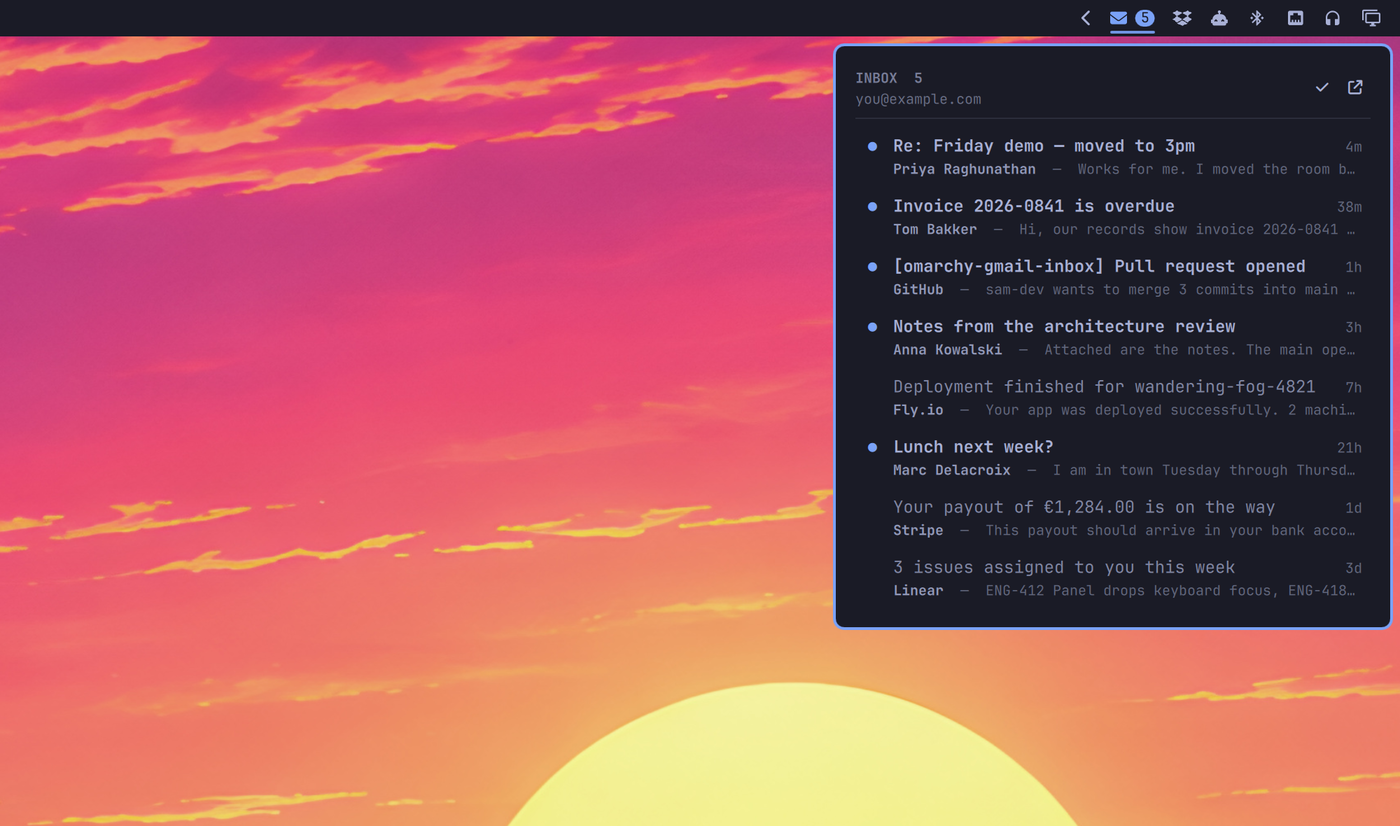
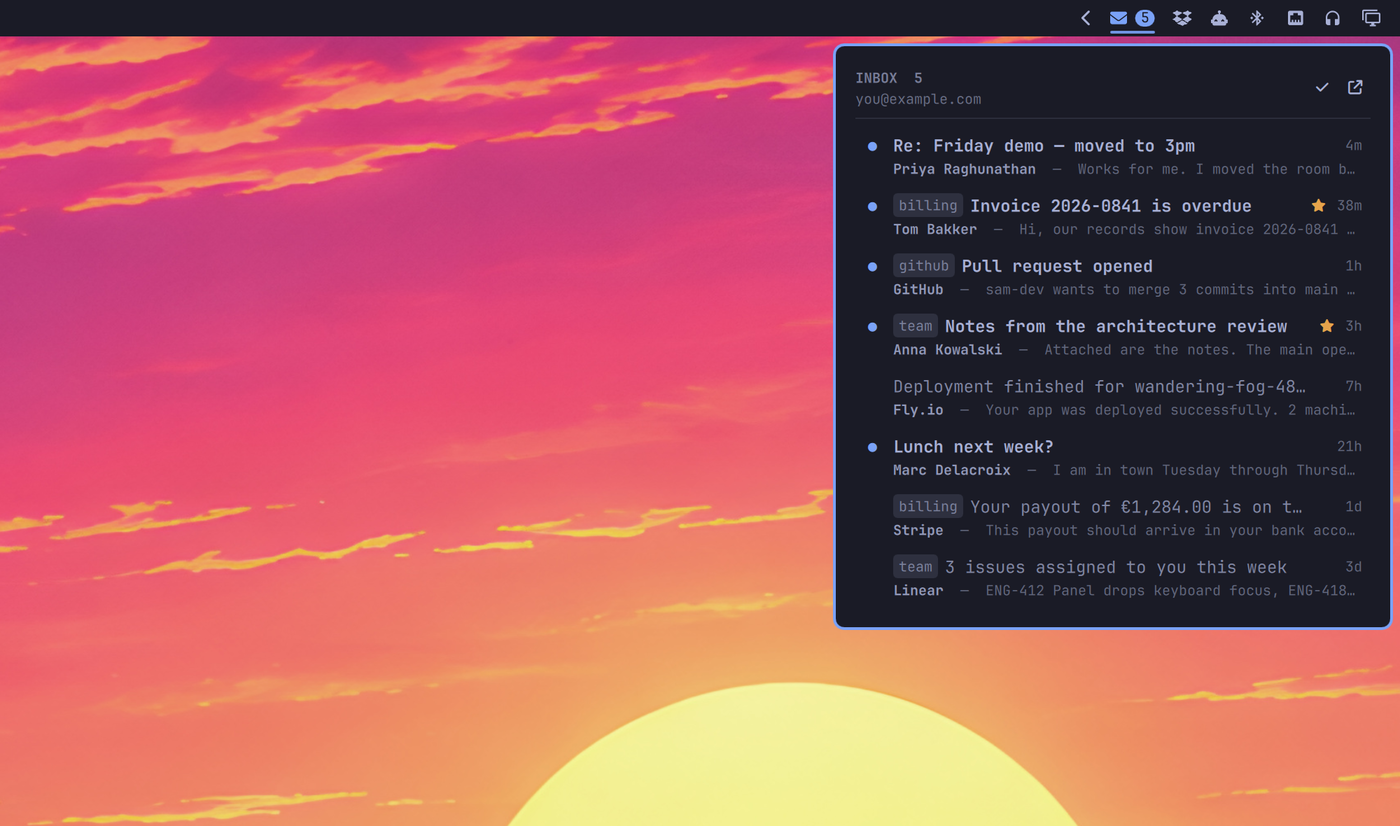
Show stars and your own labels
The star gets a slot that stays whether it is set or not, so the ages keep
one column, and it is empty and faint under the cursor: a control where you
are looking, nothing where you are not.

Labels come back as ids, so the script keeps a lookup table beside the
snippet cache. An unresolvable id is the only thing that refetches it, which
makes a renamed or new label fix itself for free.

diff --git a/Panel.qml b/Panel.qml
@@ -39,11 +39,17 @@ Panel {
   readonly property string iconDot: "\uF111"
   readonly property string iconCheck: "\uF00C"
   readonly property string iconExternal: "\uF08E"
+  readonly property string iconStar: "\uF005"
+  readonly property string iconStarEmpty: "\uF006"
 
   readonly property color foreground: bar ? bar.foreground : Color.foreground
   // A full inbox is normal, not an alarm, so the badge takes the theme accent
   // rather than the bar's urgent red.
   readonly property color accent: Color.accent
+  // The one colour here that does not come from the theme. A star is amber in
+  // every mail client there is, and a star in the theme's accent would be
+  // indistinguishable from the unread dot right beside it.
+  readonly property color starColor: "#E5A44B"
   readonly property string fontFamily: bar ? bar.fontFamily : Style.font.family
 
   property var messages: []
@@ -116,26 +122,35 @@ Panel {
   }
 
   // The list is a plain JS array, so a row is updated by handing over a new
-  // one. Done locally as well as on the server: the badge should drop the
-  // moment you click, not a refresh later.
-  function markLocalRead(id) {
+  // one. Applied locally as well as on the server: the badge and the star
+  // should follow the click, not the refresh a moment later.
+  function patchMessage(id, changes) {
     var next = []
     var changed = false
     for (var i = 0; i < messages.length; i++) {
       var m = messages[i]
-      if (m.id === id && m.unread) {
-        changed = true
-        next.push({
-          id: m.id, threadId: m.threadId, subject: m.subject, from: m.from,
-          snippet: m.snippet, ts: m.ts, unread: false
-        })
-      } else {
+      if (m.id !== id) {
         next.push(m)
+        continue
       }
+      var copy = {}
+      for (var key in m) copy[key] = m[key]
+      for (var field in changes) copy[field] = changes[field]
+      next.push(copy)
+      changed = true
     }
-    if (!changed) return
-    messages = next
-    if (unread > 0) unread -= 1
+    if (changed) messages = next
+    return changed
+  }
+
+  function markLocalRead(id) {
+    for (var i = 0; i < messages.length; i++) {
+      if (messages[i].id !== id) continue
+      if (!messages[i].unread) return
+      patchMessage(id, { unread: false })
+      if (unread > 0) unread -= 1
+      return
+    }
   }
 
   function openMessage(message) {
@@ -165,6 +180,14 @@ Panel {
     markingAll = true
     readAllProc.command = [root.script, "read-all"]
     readAllProc.running = true
+  }
+
+  function toggleStar(message) {
+    if (!message || !validId(message.id) || starProc.running) return
+    var wanted = !message.starred
+    patchMessage(message.id, { starred: wanted })
+    starProc.command = [root.script, wanted ? "star" : "unstar", message.id]
+    starProc.running = true
   }
 
   function moveCursor(delta) {
@@ -243,6 +266,12 @@ Panel {
       root.markingAll = false
       root.refresh()
     }
+  }
+
+  // No refresh on exit: the star is already drawn, and a reload here would
+  // pull the whole list out from under a run of quick stars.
+  Process {
+    id: starProc
   }
 
   Timer {
@@ -339,8 +368,11 @@ Panel {
       // both, and a handler on each runs the action twice.
       onActivateRequested: root.activateCursor()
       onTextKey: function(t) {
-        if (t === "r" && root.cursor >= 0 && root.cursor < root.messages.length)
+        var onCursor = root.cursor >= 0 && root.cursor < root.messages.length
+        if (t === "r" && onCursor)
           root.markRead(root.messages[root.cursor].id)
+        else if (t === "s" && onCursor)
+          root.toggleStar(root.messages[root.cursor])
         else if (t === "a")
           root.markAllRead()
       }
@@ -511,26 +543,102 @@ Panel {
                   width: parent.width
                   height: subject.implicitHeight
 
-                  Text {
-                    id: subject
+                  // Labels first, the way Gmail itself puts them: they say
+                  // which pile a message belongs to, which is the thing you
+                  // want before you have read the subject. Two at most, and
+                  // never the system ones — the script has already dropped
+                  // INBOX, the CATEGORY_ tabs and the star colour.
+                  Row {
+                    id: line
                     anchors.left: parent.left
+                    anchors.right: starSlot.left
+                    anchors.rightMargin: Style.space(6)
+                    anchors.verticalCenter: parent.verticalCenter
+                    spacing: Style.space(5)
+
+                    Row {
+                      id: chips
+                      anchors.verticalCenter: parent.verticalCenter
+                      spacing: Style.space(3)
+                      visible: (row.modelData.labels || []).length > 0
+
+                      Repeater {
+                        model: (row.modelData.labels || []).slice(0, 2)
+
+                        Rectangle {
+                          required property string modelData
+                          anchors.verticalCenter: parent.verticalCenter
+                          height: chipText.implicitHeight + Style.space(3)
+                          width: chipText.implicitWidth + Style.space(8)
+                          radius: Style.space(3)
+                          color: Qt.rgba(root.foreground.r, root.foreground.g,
+                                         root.foreground.b, 0.14)
+
+                          Text {
+                            id: chipText
+                            anchors.centerIn: parent
+                            text: parent.modelData
+                            textFormat: Text.PlainText
+                            font.family: root.fontFamily
+                            font.pixelSize: Style.font.caption
+                            color: Qt.darker(root.foreground, 1.35)
+                          }
+                        }
+                      }
+                    }
+
+                    Text {
+                      id: subject
+                      anchors.verticalCenter: parent.verticalCenter
+                      width: line.width - (chips.visible ? chips.width + line.spacing : 0)
+                      text: row.modelData.subject
+                      textFormat: Text.PlainText
+                      elide: Text.ElideRight
+                      font.family: root.fontFamily
+                      font.pixelSize: Style.font.body
+                      // Weight carries the read state along with the dot, so
+                      // the list can be read without hunting for the marker.
+                      font.bold: row.modelData.unread
+                      color: row.modelData.unread ? root.foreground : Qt.darker(root.foreground, 1.3)
+                    }
+                  }
+
+                  // The star keeps its slot whether it is set or not, so the
+                  // ages stay in one column down the list. Empty and faint on
+                  // the row under the cursor, invisible everywhere else: it is
+                  // a control where you are looking and nothing where you are
+                  // not.
+                  Item {
+                    id: starSlot
                     anchors.right: age.left
-                    anchors.rightMargin: Style.space(8)
-                    text: row.modelData.subject
-                    textFormat: Text.PlainText
-                    elide: Text.ElideRight
-                    font.family: root.fontFamily
-                    font.pixelSize: Style.font.body
-                    // Weight carries the read state along with the dot, so
-                    // the list can be read without hunting for the marker.
-                    font.bold: row.modelData.unread
-                    color: row.modelData.unread ? root.foreground : Qt.darker(root.foreground, 1.3)
+                    anchors.rightMargin: Style.space(6)
+                    anchors.verticalCenter: parent.verticalCenter
+                    width: Style.space(14)
+                    height: Style.space(14)
+
+                    Text {
+                      anchors.centerIn: parent
+                      visible: row.modelData.starred || row.active
+                      text: row.modelData.starred ? root.iconStar : root.iconStarEmpty
+                      textFormat: Text.PlainText
+                      font.family: root.fontFamily
+                      font.pixelSize: Style.font.caption
+                      color: row.modelData.starred
+                        ? root.starColor
+                        : Qt.darker(root.foreground, 1.9)
+                    }
+
+                    MouseArea {
+                      anchors.fill: parent
+                      cursorShape: Qt.PointingHandCursor
+                      onClicked: root.toggleStar(row.modelData)
+                    }
                   }
 
                   Text {
                     id: age
                     anchors.right: parent.right
-                    anchors.baseline: subject.baseline
+                    anchors.verticalCenter: parent.verticalCenter
                     text: root.ageLabel(row.modelData.ts)
                     textFormat: Text.PlainText
                     font.family: root.fontFamily

diff --git a/README.md b/README.md
@@ -10,6 +10,11 @@ body, and how long it has been there.
   what fits in the panel.
 - **A dot per unread message**, which doubles as the button that clears it, so
   a newsletter can be dismissed without opening it.
+- **Stars**, shown where you set them and settable from the panel. The slot
+  stays empty rather than absent, so the ages line up down one column.
+- **Your own labels** as chips in front of the subject, resolved from label id
+  to the name you gave it. Gmail's own bookkeeping — `INBOX`, the category
+  tabs, `IMPORTANT` — is left out; it says nothing you did not know.
 - **Mark all as read** from the header, covering every unread message in the
   inbox rather than only the ones on screen.
 - **Click a message** to open it in your browser, signed in to the right
@@ -58,9 +63,11 @@ o.bind("SUPER + M", "Gmail", "omarchy-shell shell toggle jankeesvw.gmail-inbox")
 | Middle-click the bar icon | refresh now |
 | Click a message | open it in the browser and mark it read |
 | Click its dot | mark it read, panel stays open |
+| Click its star | star or unstar it, panel stays open |
 | `↑` `↓` or `j` `k` | move through the list |
 | `Enter` or `Space` | open the message under the cursor |
 | `r` | mark that one read |
+| `s` | star or unstar it |
 | `a` | mark everything read |
 | `Esc` | close |
 
@@ -86,6 +93,12 @@ Snippets and timestamps never change once a message exists, so those are
 cached per message id under `$XDG_CACHE_HOME/omarchy-gmail-inbox` (mode 700,
 capped at 500 entries) and only fetched for messages that have not been seen
 before. An inbox that has not changed therefore costs no extra calls at all.
+
+Labels arrive as ids (`Label_8071185…`), never as names, so the script keeps a
+second table beside it. A label you have just created announces itself by
+turning up as an id the table cannot resolve, which is the only thing that
+triggers a refetch — so renaming or adding a label fixes itself, and the
+lookup costs nothing the rest of the time.
 
 Everything the panel draws is shaped by the script; the QML only renders a
 list. Every `Text` in it is `Text.PlainText`, because subjects and snippets
